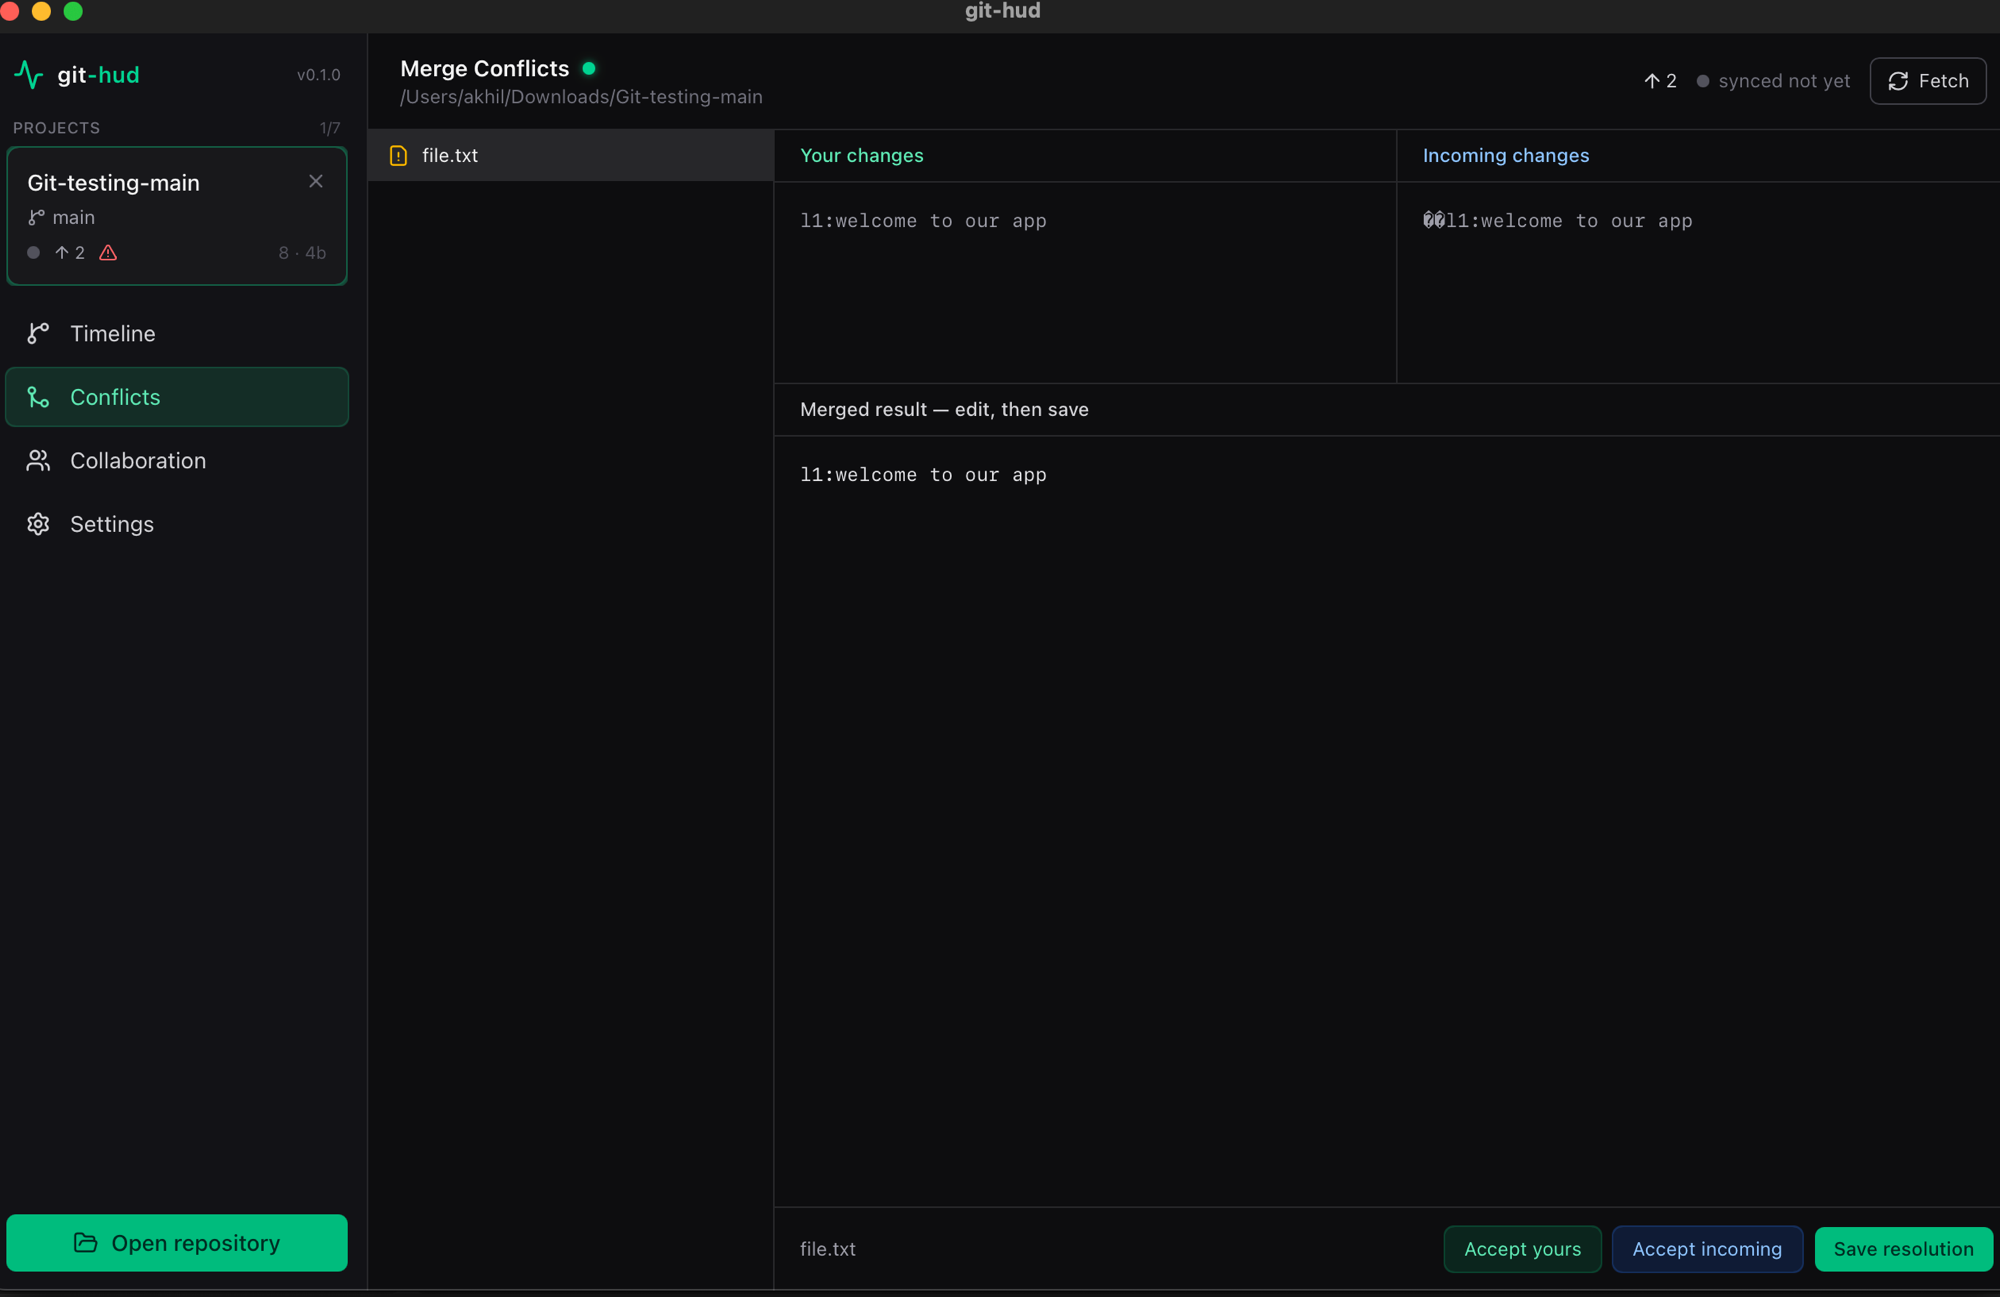
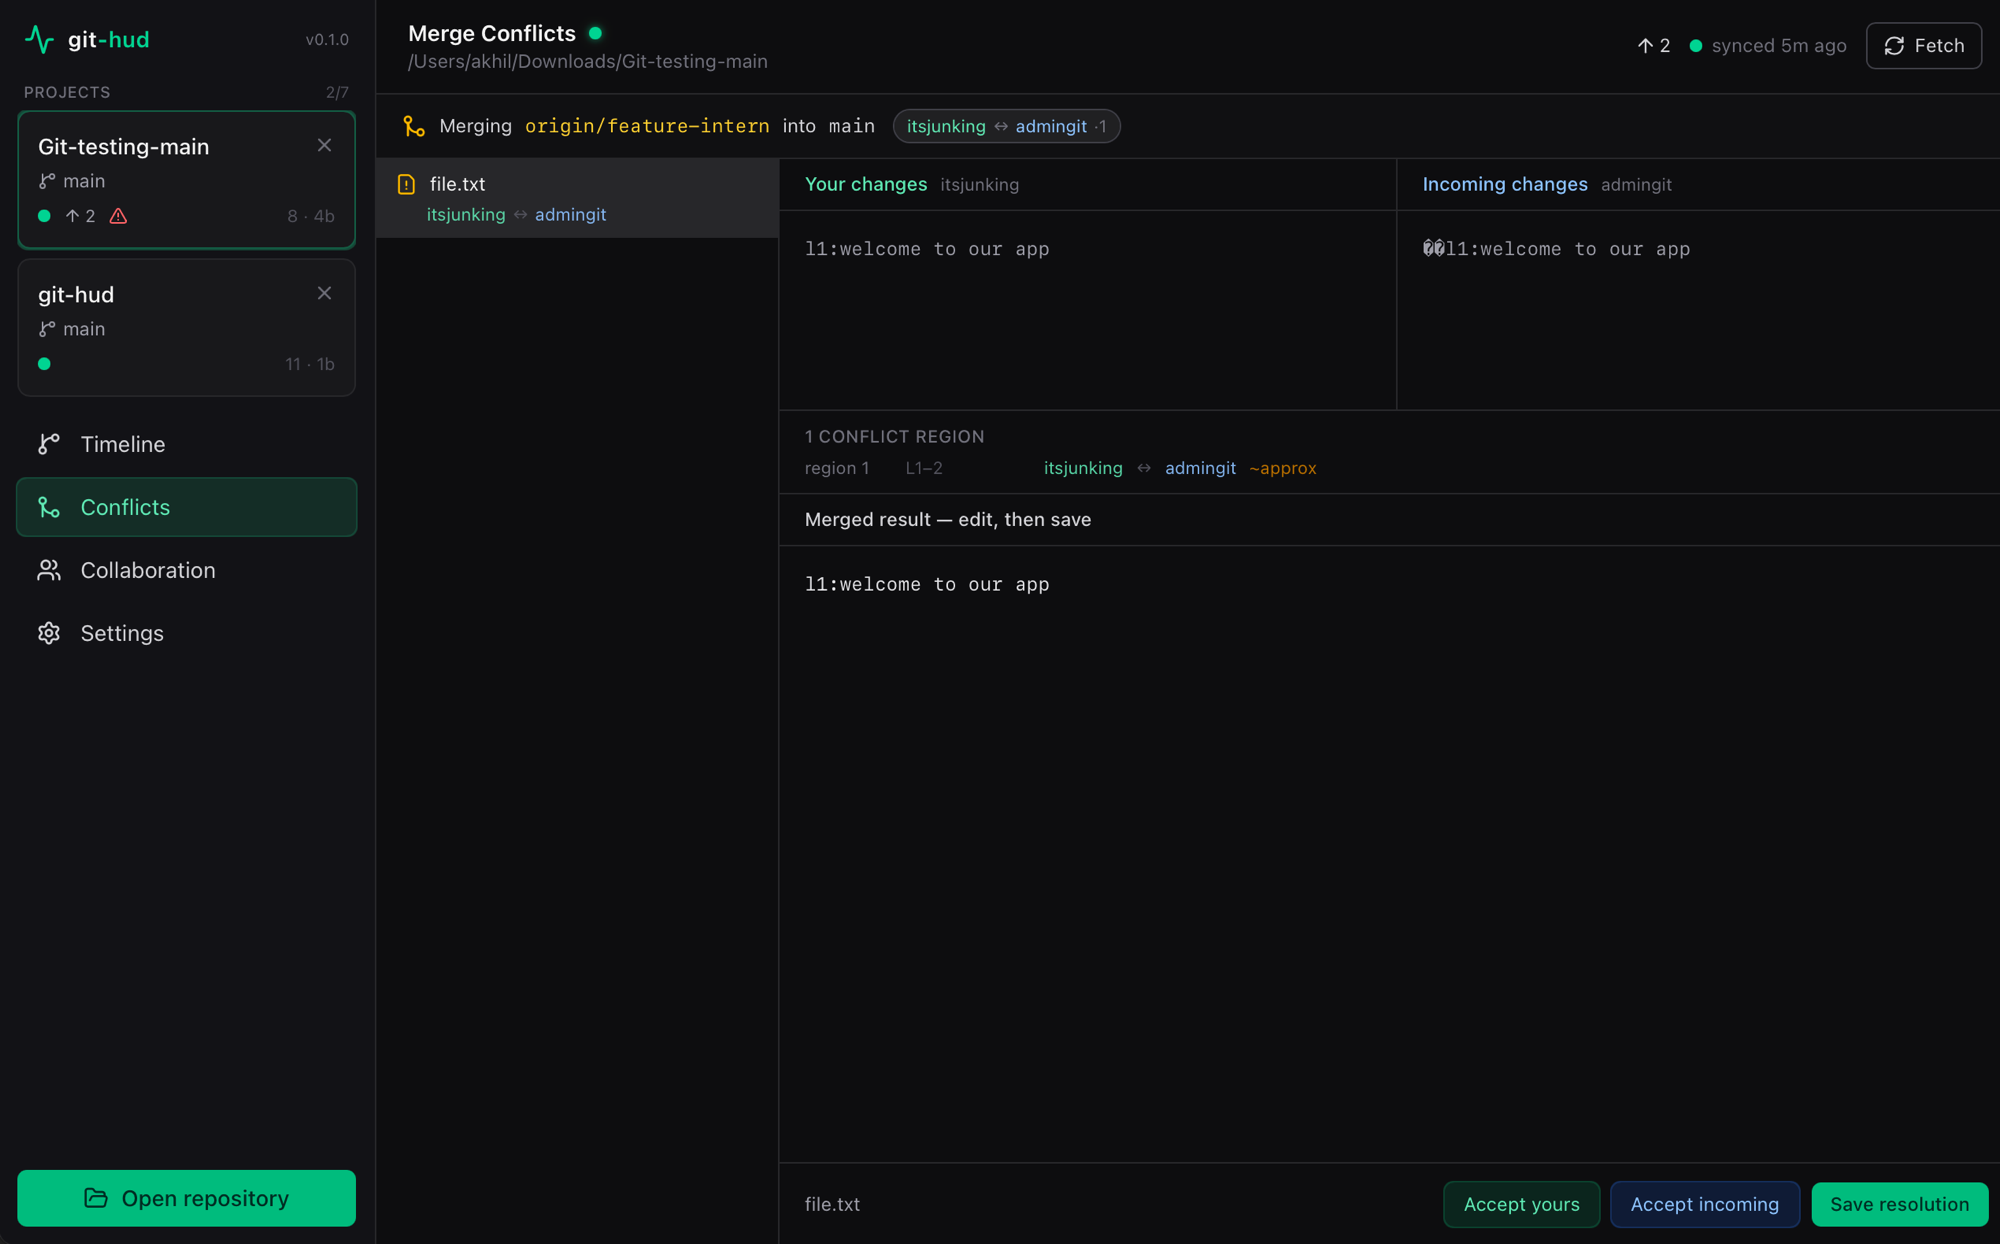
feat(collab): contributor usernames, all-branch stats,   and merge-conflict attribution
- contributors counted across all branches, shown as GitHub-style
  usernames
  - blame-based who-vs-whom conflict attribution (per-region + merge
  summary)
  - README: screenshots (incl. live attribution UI) + updated
  feature/IPC/roadmap docs

diff --git a/README.md b/README.md
@@ -30,9 +30,9 @@ Ownership by commit attribution across all branches, resolved to GitHub-style us
 ![Collaboration — Contributors](docs/screenshots/collaboration.png)
 
 ### Merge conflict editor
-Three-way sides with one-click resolution or a hand-edited, savable merge.
+Three-way sides with one-click resolution or a hand-edited, savable merge — plus **blame-based attribution**: the merge banner, `who ↔ whom` conflict-pair chips, and a per-region author breakdown.
 
-![Merge conflict editor](docs/screenshots/conflicts.png)
+![Merge conflict editor with who-vs-whom attribution](docs/screenshots/conflicts.png)
 
 ## ✨ Features
 
